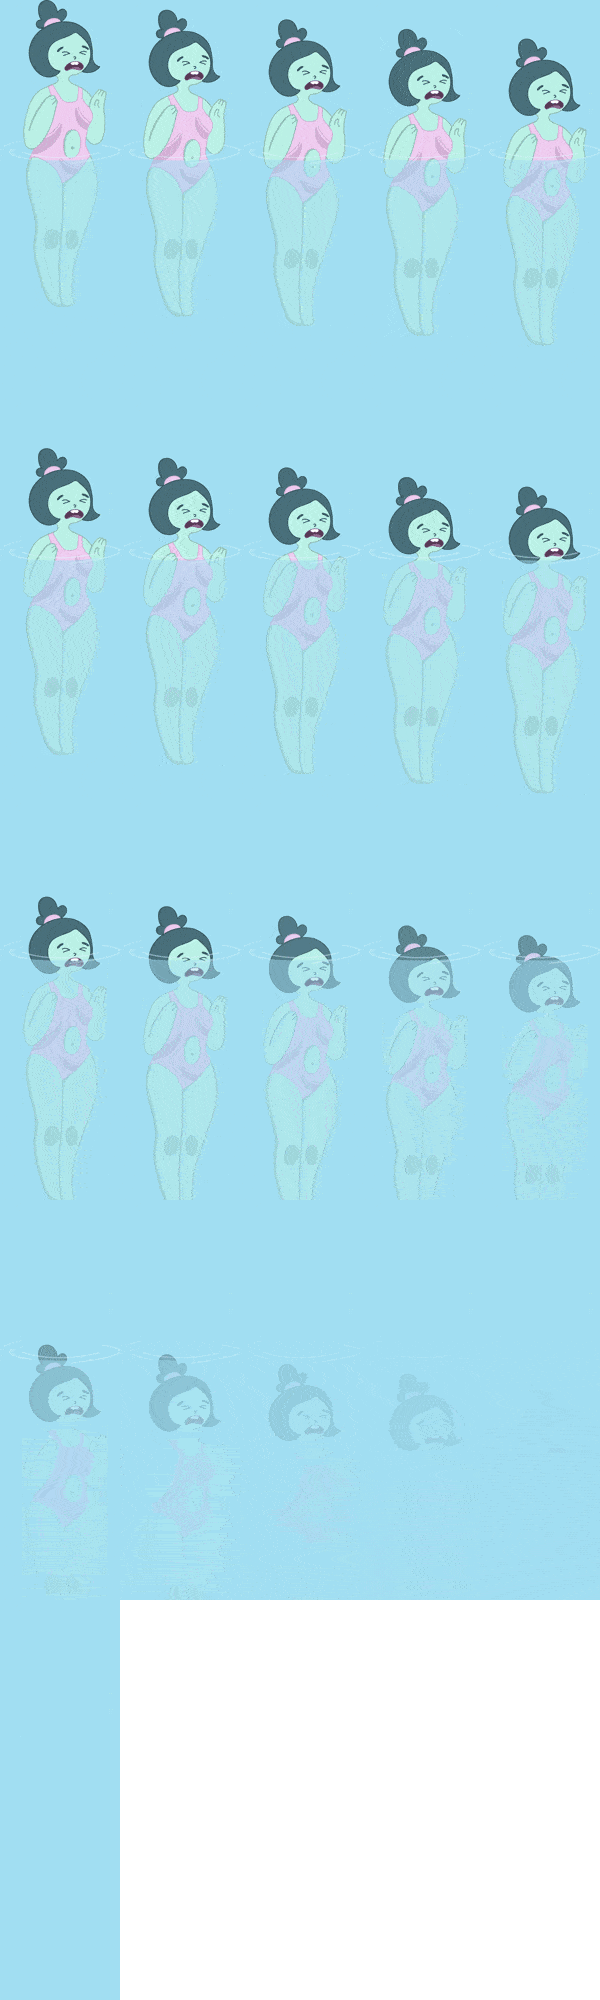
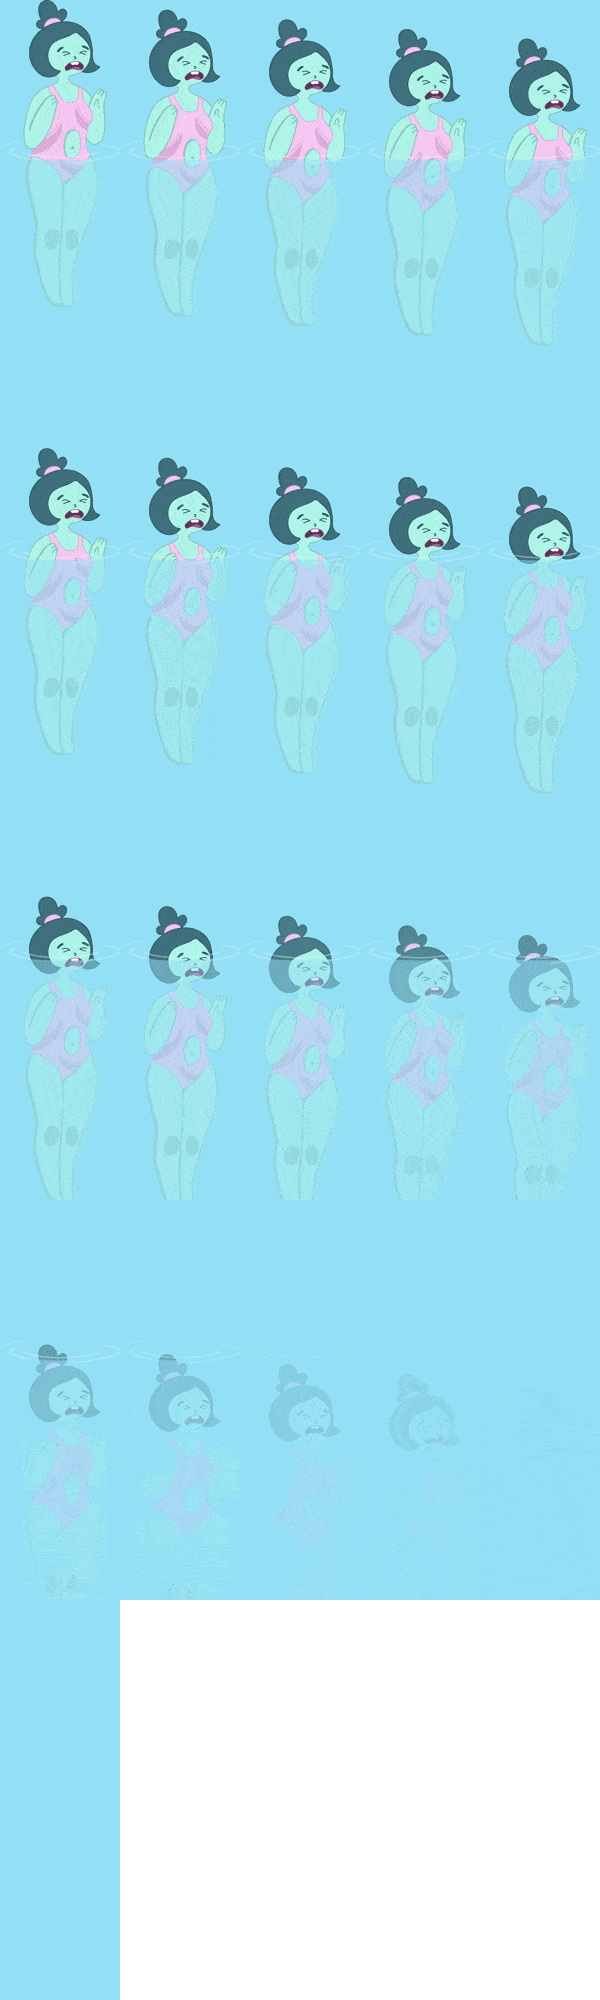
add sprits for death swimmer

diff --git a/src/states/Swimming/Boot.js b/src/states/Swimming/Boot.js
@@ -14,7 +14,7 @@ export default class extends Phaser.State {
 
   preload() {
     this.game.load.script('webfont', '//ajax.googleapis.com/ajax/libs/webfont/1.4.7/webfont.js');
-    this.load.image('background', './assets/images/piscine.jpg')
+    this.load.image('background', './assets/images/piscine2.jpg')
     this.load.image('coeur', './assets/images/coeur.png')
     this.load.image('jury', './assets/images/swimming_jury.png')
     this.load.image('juryHappy', './assets/images/swimming_jury_happy.png')
@@ -43,8 +43,9 @@ export default class extends Phaser.State {
     this.load.image('pose3Nag3', './assets/images/swimming_Pose3_nag3.png')
 
     this.load.spritesheet('dead1', './assets/images/noyade-3-min.png', 120, 400)
-    this.load.spritesheet('dead2', './assets/images/noyade-2-min.gif', 84, 214)
-    this.load.spritesheet('dead3', './assets/images/noyade-3-min.gif',67, 215)
+    this.load.spritesheet('dead2', './assets/images/noyade-1-min.png', 120, 400)
+    this.load.spritesheet('dead3', './assets/images/noyade-2-min.png', 136, 420)
+
     this.load.spritesheet('star', './assets/images/swimming_stars.png', 280, 500)
     this.load.spritesheet('nageuse1', './assets/images/swimming_little_nageuse1.png', 60, 213)
     this.load.spritesheet('nageuse2', './assets/images/swimming_little_nageuse2.png', 84, 214)
@@ -124,10 +125,19 @@ export default class extends Phaser.State {
     this.nageuse2.play('run', 8, true)
     this.nageuse3.play('run', 8, true)
 
-    let dead1 = this.game.add.sprite(responsive.getWidthFromPercentage(40), responsive.getHeightFromPercentage(54), 'dead1')
+    let dead1 = this.game.add.sprite(responsive.getWidthFromPercentage(40), responsive.getHeightFromPercentage(54), 'dead3')
+    let dead2 = this.game.add.sprite(responsive.getWidthFromPercentage(70), responsive.getHeightFromPercentage(40), 'dead1')
+    let dead3 = this.game.add.sprite(responsive.getWidthFromPercentage(15), responsive.getHeightFromPercentage(40), 'dead2')
     dead1.animations.add('run')
+    dead2.animations.add('run')
+    dead3.animations.add('run')
     dead1.scale.setTo(0.7)
-    dead1.play('run', 8, true)
+    dead2.scale.setTo(0.6)
+    dead3.scale.setTo(0.7)
+    dead1.visible = false;
+    dead2.visible = false;
+    dead3.visible = false;
+    let deadArr = [dead1,dead2,dead3];
 
     //Stars
     this.star = this.game.add.sprite(responsive.getWidthFromPercentage(45), responsive.getHeightFromPercentage(55), 'star')
@@ -407,6 +417,13 @@ export default class extends Phaser.State {
             for(let i = 0; i<this.arrPos[this.life-1].length; i++){
               this.arrPos[i][this.life-1].kill();
             }
+            console.log('life :' + this.life)
+            deadArr[this.life-1].visible = true;
+            deadArr[this.life-1].play('run', 8)
+
+            setTimeout(()=>{
+              deadArr[this.life-1].visible = false;
+            }, 1000)
             
             starArray[this.life-1].kill();
             this.life--;
